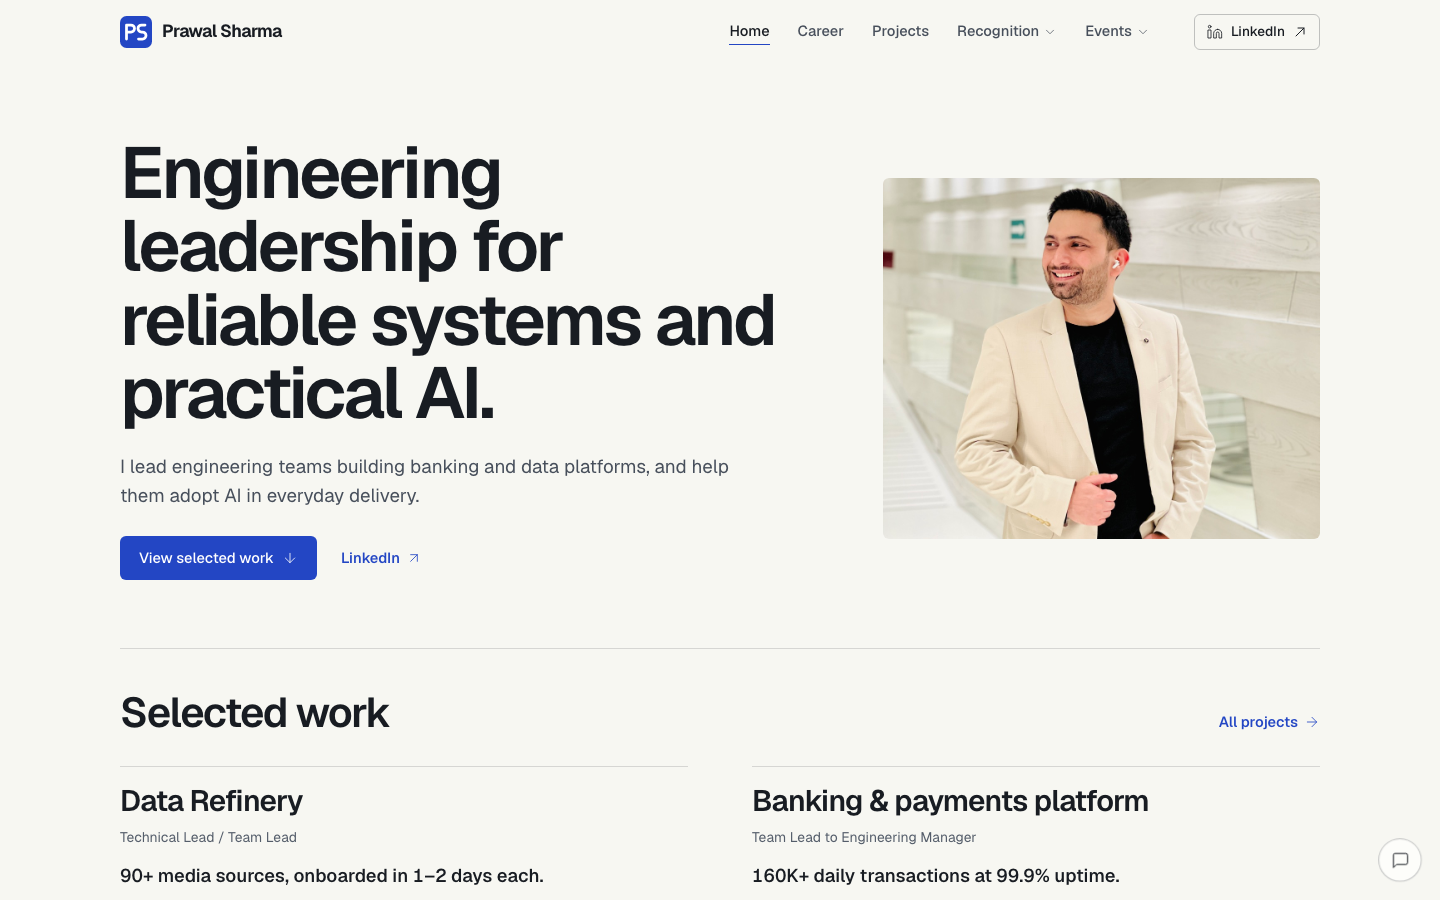
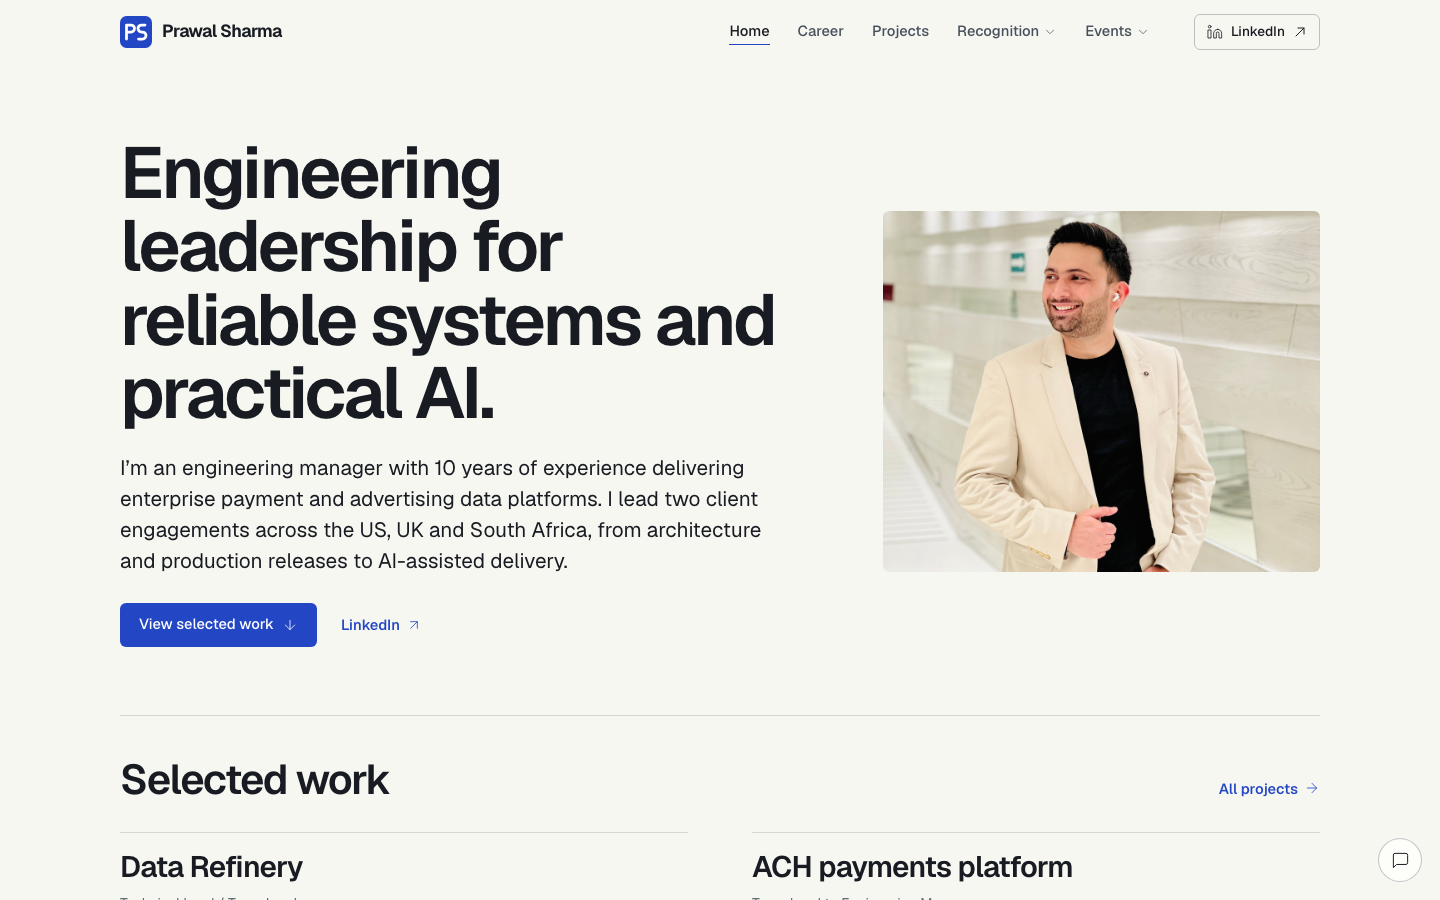
Refine homepage introduction and align supporting layouts

diff --git a/src/redesign.css b/src/redesign.css
@@ -290,11 +290,11 @@
 }
 
 .home-hero__summary {
-  max-width: 49ch;
+  max-width: 53ch;
   margin: 22px 0 0;
-  color: var(--ink-soft);
-  font-size: clamp(1rem, 1.5vw, 1.18rem);
-  line-height: 1.55;
+  color: var(--ink);
+  font-size: clamp(1.06rem, 1.75vw, 1.3rem);
+  line-height: 1.5;
 }
 
 .home .home-hero__actions {
@@ -495,14 +495,6 @@
   list-style: none;
 }
 
-.home-field__lead {
-  grid-row: span 2;
-}
-
-.home-field__support {
-  align-self: center;
-}
-
 .home-field__grid a,
 .home-field__grid figure {
   display: block;
@@ -575,6 +567,51 @@
   color: rgb(var(--accent-text-rgb));
   text-decoration: underline;
   text-underline-offset: 4px;
+}
+
+@media (min-width: 761px) {
+  .home-field__grid {
+    grid-template-rows: repeat(2, 1fr) auto;
+    row-gap: clamp(12px, 1.5vw, 20px);
+  }
+
+  .home-field__lead {
+    display: grid;
+    grid-row: 1 / 4;
+    grid-column: 1;
+    grid-template-rows: subgrid;
+  }
+
+  .home-field__lead a,
+  .home-field__lead figure {
+    display: grid;
+    grid-row: 1 / -1;
+    grid-template-rows: subgrid;
+    min-width: 0;
+  }
+
+  .home-field__lead img {
+    grid-row: 1 / 3;
+    align-self: stretch;
+  }
+
+  .home-field__lead figcaption {
+    padding-top: 0;
+  }
+
+  .home-field__support,
+  .home-field__support img {
+    align-self: start;
+  }
+
+  .home-field__support {
+    grid-column: 2;
+  }
+
+  .home-field__support:last-child,
+  .home-field__support:last-child img {
+    align-self: end;
+  }
 }
 
 /* Pull quote */
@@ -836,11 +873,6 @@
 
   .home-field__lead {
     grid-column: 1 / -1;
-    grid-row: auto;
-  }
-
-  .home-field__support {
-    align-self: start;
   }
 
   .home-field__support figure {
@@ -956,6 +988,12 @@
   font-size: 0.92rem;
 }
 
+.footer-brand small {
+  display: block;
+  margin-top: 22px;
+  font-size: 0.85rem;
+}
+
 .footer-nav {
   display: grid;
   grid-template-columns: repeat(2, minmax(0, 1fr));
@@ -1019,15 +1057,6 @@
   padding: 0 10px;
 }
 
-.site-footer__base {
-  display: flex;
-  justify-content: space-between;
-  gap: 16px;
-  padding: 20px 64px 32px 0;
-  border-top: 1px solid var(--line);
-  font-size: 0.85rem;
-}
-
 .recovery-page {
   width: min(680px, 100%);
   margin-inline: auto;
@@ -1046,19 +1075,10 @@
   color: var(--ink-soft);
 }
 
-.site-footer__base a:hover {
-  color: var(--ink);
-}
-
 @media (max-width: 900px) {
   .site-footer__inner {
     grid-template-columns: minmax(0, 1fr);
-  }
-
-  /* keep the LinkedIn link clear of the floating chat button */
-  .site-footer__base {
-    padding-right: 76px;
-    padding-bottom: 40px;
+    padding-bottom: 76px;
   }
 }
 

diff --git a/index.html b/index.html
@@ -10,7 +10,7 @@
     <meta name="theme-color" content="#F7F7F2" />
     <meta property="og:type" content="website" />
     <meta property="og:title" content="Prawal Sharma | Engineering Leader" />
-    <meta property="og:description" content="Engineering leadership for reliable systems and practical AI, with 10 years delivering banking and data platforms across global teams." />
+    <meta property="og:description" content="Engineering leadership for reliable systems and practical AI, with 10 years delivering enterprise payment and advertising data platforms for global clients." />
     <meta property="og:url" content="https://prawal-personal-brand.vercel.app/" />
     <meta property="og:image" content="https://prawal-personal-brand.vercel.app/social-preview.jpg" />
     <meta property="og:image:type" content="image/jpeg" />
@@ -19,7 +19,7 @@
     <meta property="og:image:alt" content="Prawal Sharma, engineering leadership for reliable systems and practical AI." />
     <meta name="twitter:card" content="summary_large_image" />
     <meta name="twitter:title" content="Prawal Sharma | Engineering Leader" />
-    <meta name="twitter:description" content="Engineering leadership for reliable systems and practical AI, with 10 years delivering banking and data platforms across global teams." />
+    <meta name="twitter:description" content="Engineering leadership for reliable systems and practical AI, with 10 years delivering enterprise payment and advertising data platforms for global clients." />
     <meta name="twitter:image" content="https://prawal-personal-brand.vercel.app/social-preview.jpg" />
     <meta name="twitter:image:alt" content="Prawal Sharma, engineering leadership for reliable systems and practical AI." />
     <link rel="icon" type="image/svg+xml" href="/favicon.svg" />

diff --git a/src/pages/AIProjectsPage.jsx b/src/pages/AIProjectsPage.jsx
@@ -60,7 +60,7 @@ function FlagshipCase({ project }) {
         {project.team ? <span>{project.team}</span> : null}
       </div>
       <div className="projects-case__body">
-        <h3>{project.name}</h3>
+        <h3>{project.preview?.title || project.name}</h3>
         <p className="projects-case__headline">{project.preview?.result || project.headline}</p>
         {project.preview && <SystemFlowPreview diagram={project.preview.diagram} />}
         <TextLink to={`/ai-projects/professional/${project.slug}`}>Read the case</TextLink>
@@ -148,7 +148,7 @@ export default function AIProjectsPage() {
       <PageFrame
         className="projects-index-hero"
         title="Projects"
-        intro="Client systems in banking, media and operations, alongside independent AI and product builds."
+        intro="Client systems across payments, media, banking and operations, alongside independent AI and product builds."
       >
         <ProofIndex
           label="On this page"

diff --git a/src/pages/ExecutivePage.jsx b/src/pages/ExecutivePage.jsx
@@ -31,7 +31,9 @@ function Hero() {
     <section className="home-hero" aria-labelledby="home-hero-title">
       <div className="home-hero__copy">
         <h1 id="home-hero-title">{profile.shortHeadline}</h1>
-        <p className="home-hero__summary">I lead engineering teams building banking and data platforms, and help them adopt AI in everyday delivery.</p>
+        <p className="home-hero__summary">
+          I’m an engineering manager with 10 years of experience delivering enterprise payment and advertising data platforms. I lead two client engagements across the US, UK and South Africa, from architecture and production releases to AI-assisted delivery.
+        </p>
         <div className="home-actions home-hero__actions">
           <a className="primary-link" href="#selected-work">
             View selected work <ArrowDown size={16} aria-hidden="true" />

diff --git a/src/data/profile.js b/src/data/profile.js
@@ -257,7 +257,7 @@ export const profile = {
       featured: true,
       headline: "White-label ACH payments for a US bank, from enrollment to settlement.",
       preview: {
-        title: "Banking & payments platform",
+        title: "ACH payments platform",
         result: "160K+ daily transactions at 99.9% uptime.",
         diagram: "banking-payments"
       },
@@ -278,7 +278,7 @@ export const profile = {
         "Coordinate enrollment and fraud-control improvements across API, UI and QA teams with production-readiness reviews."
       ],
       outcome:
-        "Supports 160K+ daily banking transactions at 99.9% uptime, with event-driven settlement jobs now running on Azure."
+        "Supports 160K+ daily ACH transactions at 99.9% uptime, with event-driven settlement jobs now running on Azure."
     },
     {
       name: "Taxonomy",

diff --git a/src/App.jsx b/src/App.jsx
@@ -343,6 +343,7 @@ function AppShell() {
           <div className="footer-brand">
             <strong>{profile.name}</strong>
             <p>Engineering leader · {profile.location}</p>
+            <small>&copy; {CURRENT_YEAR} {profile.name}</small>
           </div>
           <nav className="footer-nav" aria-label="Footer">
             <div>
@@ -363,10 +364,6 @@ function AppShell() {
           <div className="footer-contact">
             <DirectContactPanel />
           </div>
-        </div>
-        <div className="site-footer__base">
-          <span>&copy; {CURRENT_YEAR} {profile.name}</span>
-          <a href={profile.contact.linkedin} target="_blank" rel="noreferrer">LinkedIn</a>
         </div>
       </footer>
 
